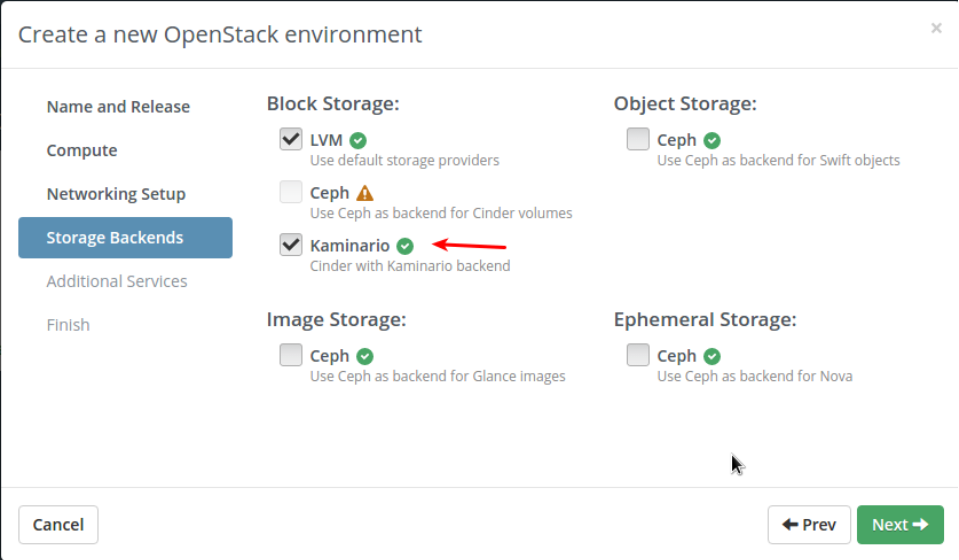
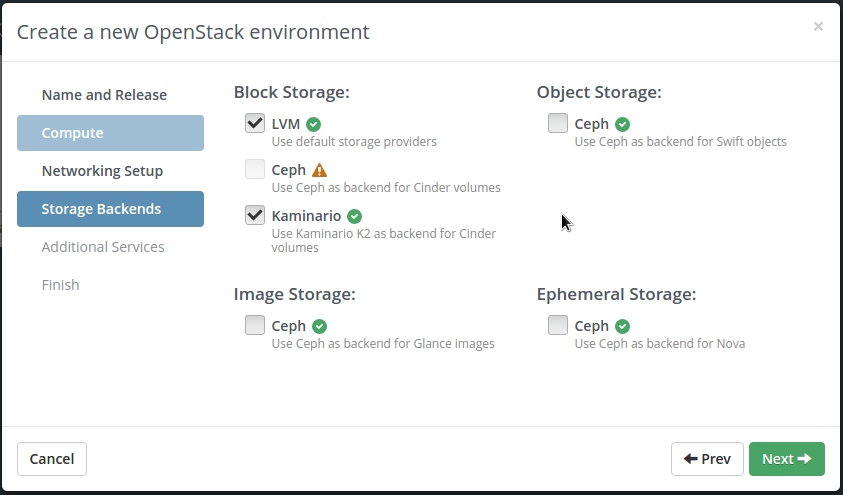
Update fuel plugin repo Latest documentation

diff --git a/doc/plugin guide/source/plugin_configuration.rst b/doc/plugin guide/source/plugin_configuration.rst
@@ -2,93 +2,126 @@
 Plugin configuration
 --------------------
 
-**To configure Kaminario Cinder plugin:**
+**To configure Kaminario K2 Cinder plugin:**
 
-* create environment in Fuel web UI by enabling kaminario option which is in Storage Backends tab.
+#. Create an OpenStack environment as described in the `Fuel User Guide <http://docs.openstack.org/developer/fuel-docs/userdocs/fuel-user-guide/create-environment.html>`_:
+
+
+* As part of the Create New OpenStack Environment wizard, click Storage Backends (fourth step in the wizard). The following screen appears: 
 
    .. image:: ./images/new_openstack_environment.png
       :width: 400pt
       :alt: New Openstack Environment
-   
-
-* To configure the plugin go to settings tab and click on storage tab. 
+ 
+* Under Block Storage, select the Kaminario checkbox. 
+* Click Next twice to finish the OpenStack Environment setup. 
 
    .. image:: ./images/openstack_settings.png
       :width: 400pt
       :alt: OpenStack Settings
+ 
+* In the Fuel environment click the Settings tab. 
 
-* Following  are the basic options to configure the Kaminario Cinder Fuel Plugin 
+* In the navigation pane, click Storage snd scroll down to the Kaminario K2 for Cinder section. 
 
-   .. image:: ./images/basic_options.png
+   .. image:: ./images/plugin_full_UI.png
       :width: 400pt
-      :alt: Basic Settings
+      :alt: OpenStack UI Full
 
-*Storage Protocol*: Select ‘ISCSI‘ for Kaminario K2 All-Flash iSCSI array and ‘FC‘ forKaminario K2 All-Flash FC array
 
-*Cinder Node*: Specify the name of the cinder node to configure Kaminario backend
+* Under Storage Connection Types, Select ‘ISCSI‘ for Kaminario K2 iSCSI array or Fiber Channel for Kaminario K2 Fiber Channel array.
 
-*Kaminario storage IP*: Management IP for the Kaminario K2 All-Flash array
+* In the Cinder Volume Node field, enter the name of the Fuel node with Cinder role. 
 
-*Backend Name*: Specify the name for the Kaminario backend
+* In the Volume Backend Name field, enter a name for the backend storage.
 
-*Username*: Specify the username for the Kaminario K2 All-Flash array
+* In the K2 Management IP field, enter the manaagement IP address for the K2 backend storage system.
 
-*Password*: Specify the corresponding password for the user
+* In the username field, enter the username for accessing the K2 management.  
 
-* To add details of replication peer, check ‘Enable Replication‘ box and fill the following details
+* In the password field, enter the password for accessing the K2 management.
+
+* In the Enable Replication checkbox, select the check box if you wish to enable replication for the K2 array. 
+
+* In te Enable Multipath checkbox, select the check box if you wish to enable the multipath option.
+
+* In the Surpress SSL Warnings checkbox, select the if you wish to suppress requests library SSL certificate warnings.
+
+* In the Report Discard Supported checkbox if you wish to enable trim/unmap.
+
+* In the Filter Function field, enter a limit on total number of volumes that will be created on the K2 array.
+
+* In the Over-Subscription checkbox, configure the provisioning settings. If you don't select the checkbox the system will use the default value of x20; 
+
+  Selecting the checkbox, calculates the reduction rate based on the existing data.
+
+**Adding a new backend**
+
+If you want to configure multiple K2 backends, follow the steps below.
+
+To add a new backend
+
+* Select the Add a New Backend checkbox.
+
+New fields appear for the second backend
+
+* Fill in the new backend fields by repeating the steps mentioned above. 
+
+**Adding a new volume type**
+
+You can define a new volume type. Volume types will be associated with specific backends. The volume back-end names can be any user-defined name. For each volume type, you should specify an attribute that will determine if the volume type includes deduplication and/or replication.
+
+The system includes the following default settings: 
+
+Deduplication is enabled
+
+Replication is disabled
+
+   .. image:: ./images/add_new_volume.png
+      :width: 400pt
+      :alt: New Volume Type
+
+
+* Select the Add New Volume Type checkbox.
+
+New fields appear for configuring the new volume type.
+
+* In the Volume Type Name field, enter a user-defined and unique name for the volume type. 
+
+* In the Volume Backend Name, enter the name of the backend that will be associated with this volume type. 
+
+* If the volume type should include replication, select the Enable Replication checkbox. 
+
+* If the volume type should not include deduplication, select the Enable Deduplication checkbox.
+
+* If you want to make this volume type the defualt volume type (Cinder will use this volume type when no other volume type have been specified), select the Default Type checkbox.
+
+* To create additional volume types, select the Add New Volume Type checkbox and repeat the steps above. 
+
+**Configuring Replication**
+
+As part of the configuration of the backend storage, you can configure replication. 
 
    .. image:: ./images/replication.png
       :width: 400pt
       :alt: Replication
 
-*IP address*: Specify the IP address for the replication peer
 
-*Username*: Specify the username for the replication peer
+To configure replication:
 
-*Password*: Specify the corresponding password for the user
+* Select the Enable Replication checkbox.
 
-*RPO*: Specify RPO value for replication, it should either 60 sec or multiples of 300 secs.
+New fields appear for configuring the replication target. 
 
-* To create a volume type check the ‘Create Volume Type‘ box and fill the following details
+* In the Replication Target IP field, enter the replication target management IP address.
 
-   .. image:: ./images/create_volume_type.png
-      :width: 400pt
-      :alt: Create volume type
+* In the Username field, enter the username for accessing the replication target. 
 
-*Volume Type Name*: Specify a name for the volume type
+* In the Password field, enter the password for accessing the replication target. 
 
-*Advanced options*: To enable advanced functionalities like replication and nodedup check any one of three options
+* In the RPO field, enter the recovery objective point in seconds. The value must be either 60 or multiples of 300 seconds. 
 
-   .. image:: ./images/options.png
-      :width: 400pt
-      :alt: Options
+If you have completed the configuration, click Save Settings. 
+   
 
-*Default Type*: Check If the above-created volume type should be default volume type
 
-*Enable Multipath*: Check this box in order to use multipath in cinder and nova
-
-*Suppress logs*: Check this box in order to suppress python ‘requests‘ library warnings.
-
-*Filter function*: Specify Filter function(optional)
-
-*goodness function*: Specify goodness function(optional)
-
-*Oversubscription Ratio*: If this is checked kaminario driver will calculate dynamically "max_over_subscription_ratio".
-
-*Scheduler filters*: In order to enable scheduler filters explicitly, specify filter name separated by comma
-
-*Scheduler weighers*: In order to enable scheduler weigher explicitly, specify weigher name separated by comma
-
-*RPC Timeout*: Specify the rpc timeout, the default timeout is 60 sec
-
-   .. image:: ./images/new_backend.png
-      :width: 400pt
-      :alt: New backend
-
-Check this option to add a new ‘Kaminario K2 All-Flash array‘ as a new backend or to scale the existing backend.
-
-* Specify new ‘volume_backend_name‘ to add a new backend 
-
-* Use same ‘volume_backend_name‘ if scale an existing backend. This plugin supports the addition of 5 extra backends.
-
-This plugin is hot pluggable.One can deploy it again without disturbing the existing backends or existing setup.

diff --git a/doc/plugin guide/source/troubleshooting.rst b/doc/plugin guide/source/troubleshooting.rst
@@ -1,7 +1,7 @@
 Verification
 ============
 
-Login into the controller node from the Fuel-master node:
+Log in to the controller node from the Fuel-master node:
 
 1. Verify the status of cinder-volume service for Kaminario backend
 
@@ -43,14 +43,14 @@ Login into the controller node from the Fuel-master node:
 Troubleshooting
 ===============
 
-On failure of the verification of Kaminario Fuel plugin or any Cinder volume operations related to the Kaminario backend, check the following log files for identifying the root cause of the failure:
+On failure of the verification of Kaminario Fuel plugin or any Cinder volume operations related to the Kaminario backend, check the following log files to identify the root cause of the failure:
 
 #. **/var/log/cinder/cinder-volume.log**
 #. **/var/log/cinder/cinder-api.log**
 #. **/var/log/cinder/cinder-scheduler.log**
 #. **/var/log/nova/nova-compute.log**
 
-Check the status of cinder volume service for Kaminario backend.
+Check the status of cinder volume service for Kaminario K2 backend.
 
    .. code-block:: console
 
@@ -60,10 +60,10 @@ Check the status of cinder volume service for Kaminario backend.
       :width: 400pt
       :alt: cinder_service_list
 
-The failures may be caused due to many possibilities, the following are few of them:
+The failures may be caused due to many causes, the following are few of them:
 
-1. Kaminario rest-api version is less than 2.2.0.
-2. Kaminario K2 all-flash array version is less than 5.8.
+1. Kaminario rest-api version is lower than 2.2.0.
+2. Kaminario K2 all-flash array version is lower than 5.8.
 3. Data path between the Fuel nodes (having cinder and compute role) and the Kaminario K2 all-flash array is not present or inaccessible:
 
    .. image:: ./images/FC_HBA.png
@@ -82,6 +82,6 @@ The failures may be caused due to many possibilities, the following are few of t
 
 4. Management IP of the Kaminario backend is not correct or inaccessible from the Fuel node having the Cinder role.
 5. Wrong credentials (username and password) used for the Kaminario backend.
-6. Not using the Kaminario Fuel plugin configuration options for; creating volume type and setting default volume type.
-7. No proper use of Kaminario Fuel plugin configuration options like Filter Function, Goodness Function, Scheduler weighers and Scheduler filters.
+6. Improper configuration of the Kaminario Fuel plugin configuration options for; creating volume type and setting default volume type.
+7. Improper use of Kaminario Fuel plugin configuration options like Filter Function, Goodness Function, Scheduler weighers and Scheduler filters.
 8. Others.

diff --git a/doc/plugin guide/source/description.rst b/doc/plugin guide/source/description.rst
@@ -3,7 +3,7 @@
 Overview of the Kaminario Cinder plugin
 =======================================
 
-The Kaminario cinder fuel plugin helps in configuring Kaminario iSCSI and FC cinder drivers for Kaminario K2 All-Flash arrays in Mirantis Fuel OpenStack setup.It allows to configure and scale multiple Kaminario backends.It installs the “krest” python library on cinder-volume node which is prerequisite for Kaminario iSCSI and FC cinder drivers.It allows to configure various cinder and Kaminario specific option.
+The Kaminario cinder fuel plugin helps configure Kaminario iSCSI and FC cinder drivers for Kaminario K2 All-Flash arrays in Mirantis Fuel OpenStack setup.It enables configuration of one or many Kaminario K2 backends. It installs the “krest” python library on cinder-volume node which is prerequisite for Kaminario iSCSI and FC cinder drivers.It enables configuration of various cinder and Kaminario specific options.
 
 Software prerequisites 
 ----------------------
@@ -25,5 +25,4 @@ Kaminario K2 All Flash Array  K2 rest api version should be >= 2.2.0
 Limitations
 -----------
 
-No limitaitions
-
+No limitations.

diff --git a/doc/plugin guide/source/installation.rst b/doc/plugin guide/source/installation.rst
@@ -3,7 +3,7 @@
 Install Kaminario Cinder Plugin
 ===============================
 
-Before you install Kaminario Cinder Plugin. You must have the Fuel Master node installed and configured before you can install the plugin. Typically, you install a Fuel plugin before you deploy an OpenStack environment.   
+Before you install Kaminario Cinder Plugin ensure that you have installed and configured the Fuel Master node. Typically, you install a Fuel plugin before you deploy an OpenStack environment.   
 
 **To install Kaminario Cinder Plugin:**
 
@@ -17,7 +17,7 @@ Before you install Kaminario Cinder Plugin. You must have the Fuel Master node i
 
       # scp cinder_kaminario-1.0-1.0.0-1.noarch.rpm root@fuel-master:/tmp
 
-#. Log into Fuel Master node CLI as root.
+#. Log in to Fuel Master node CLI as root.
 #. Install the plugin by typing:
 
    .. code-block:: console
